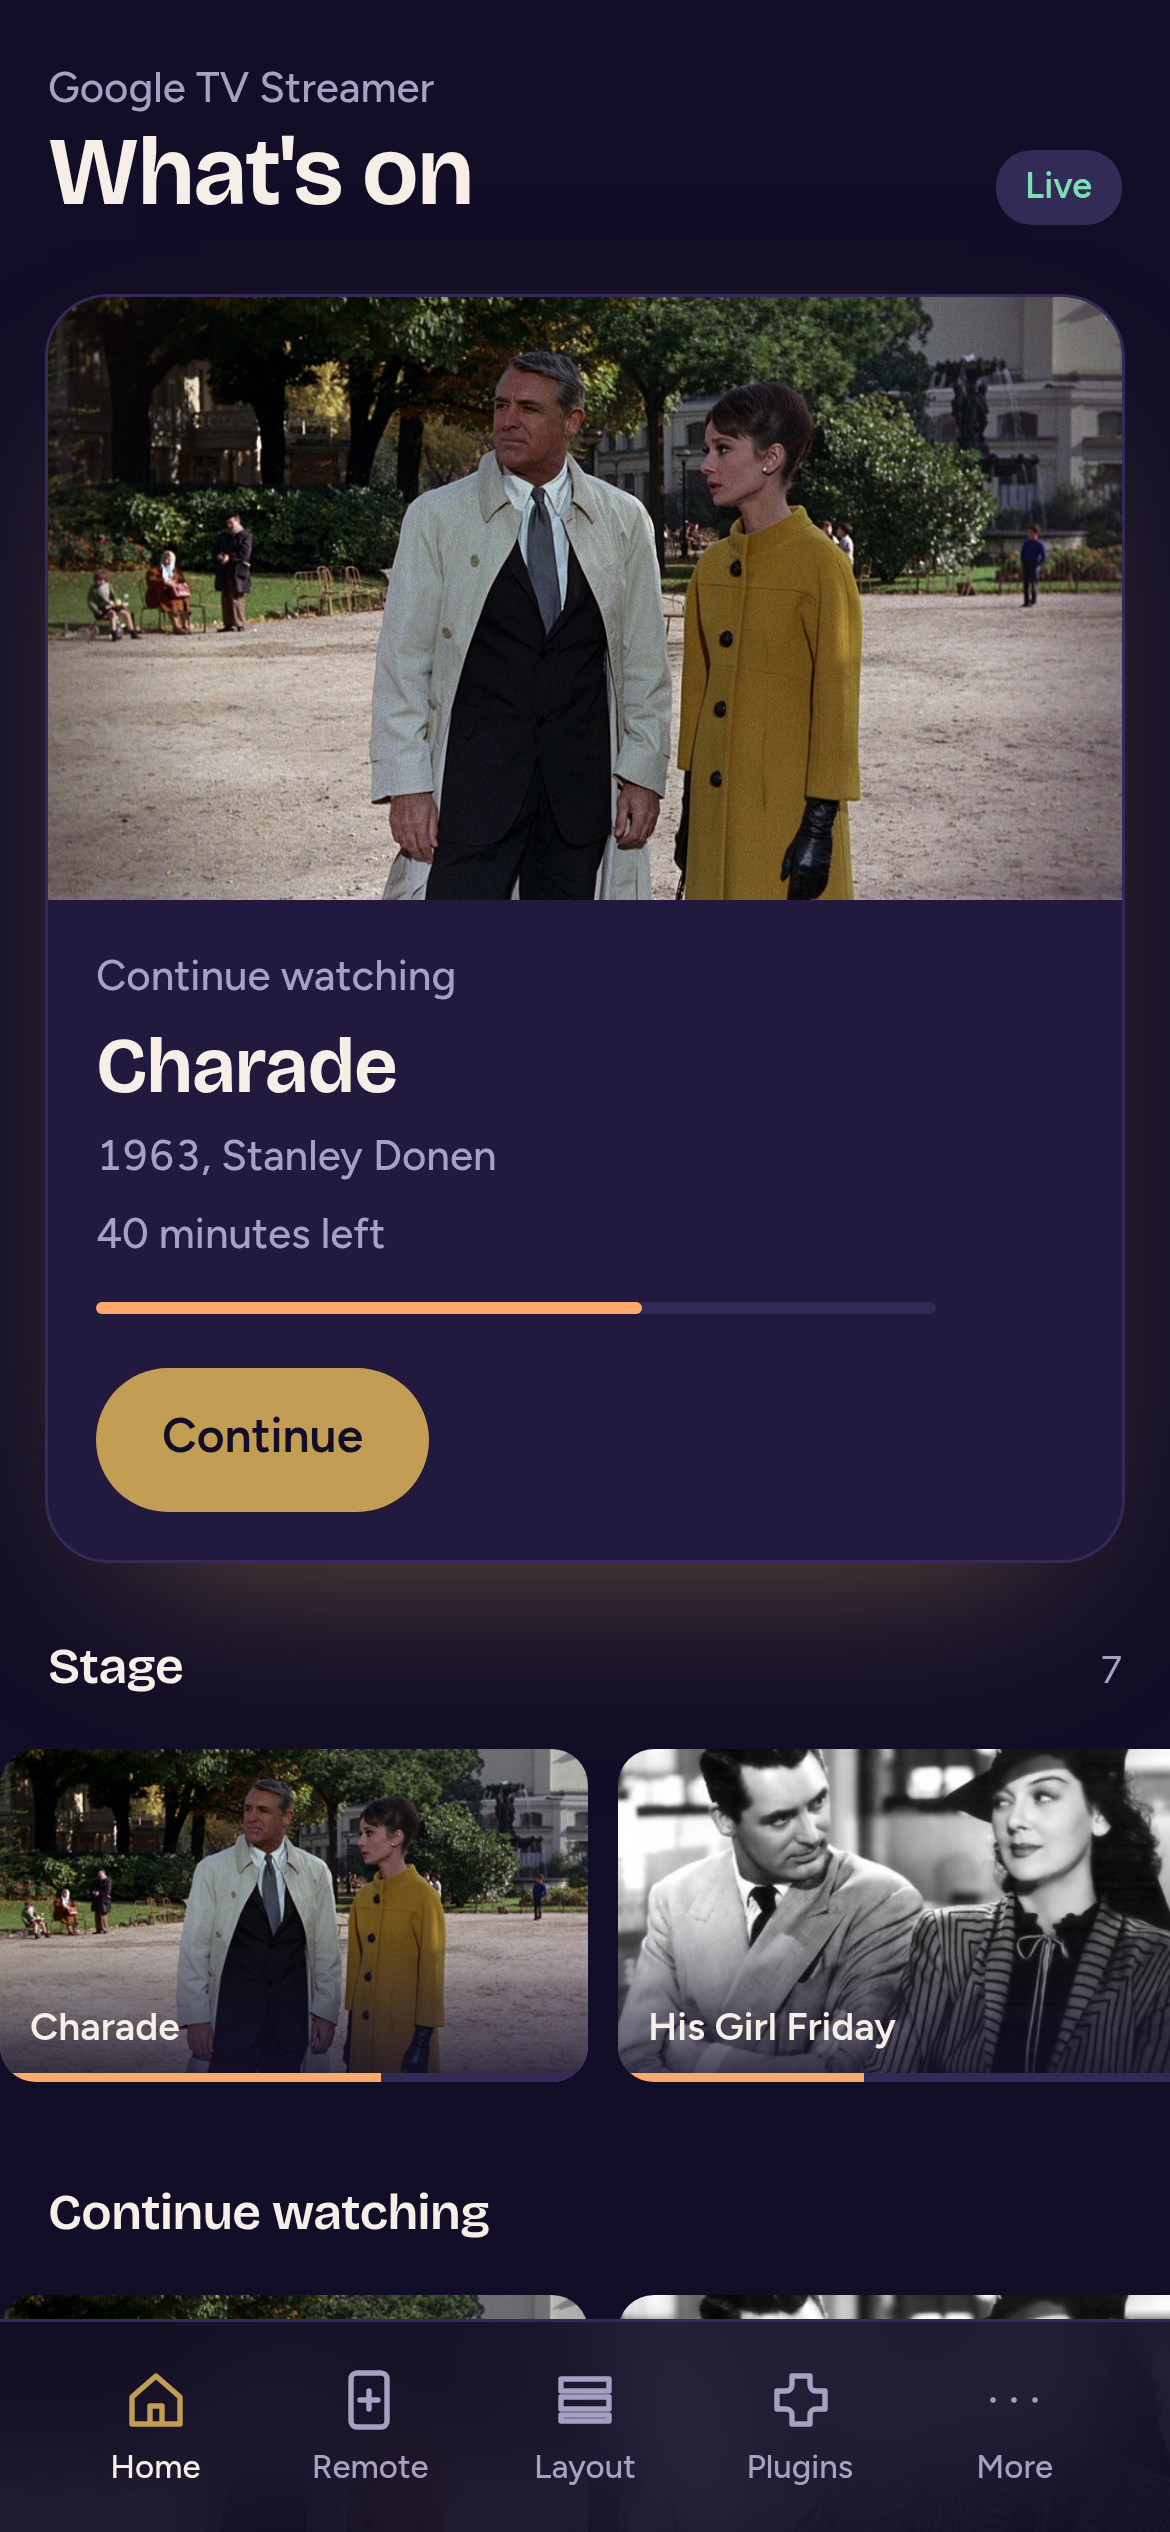
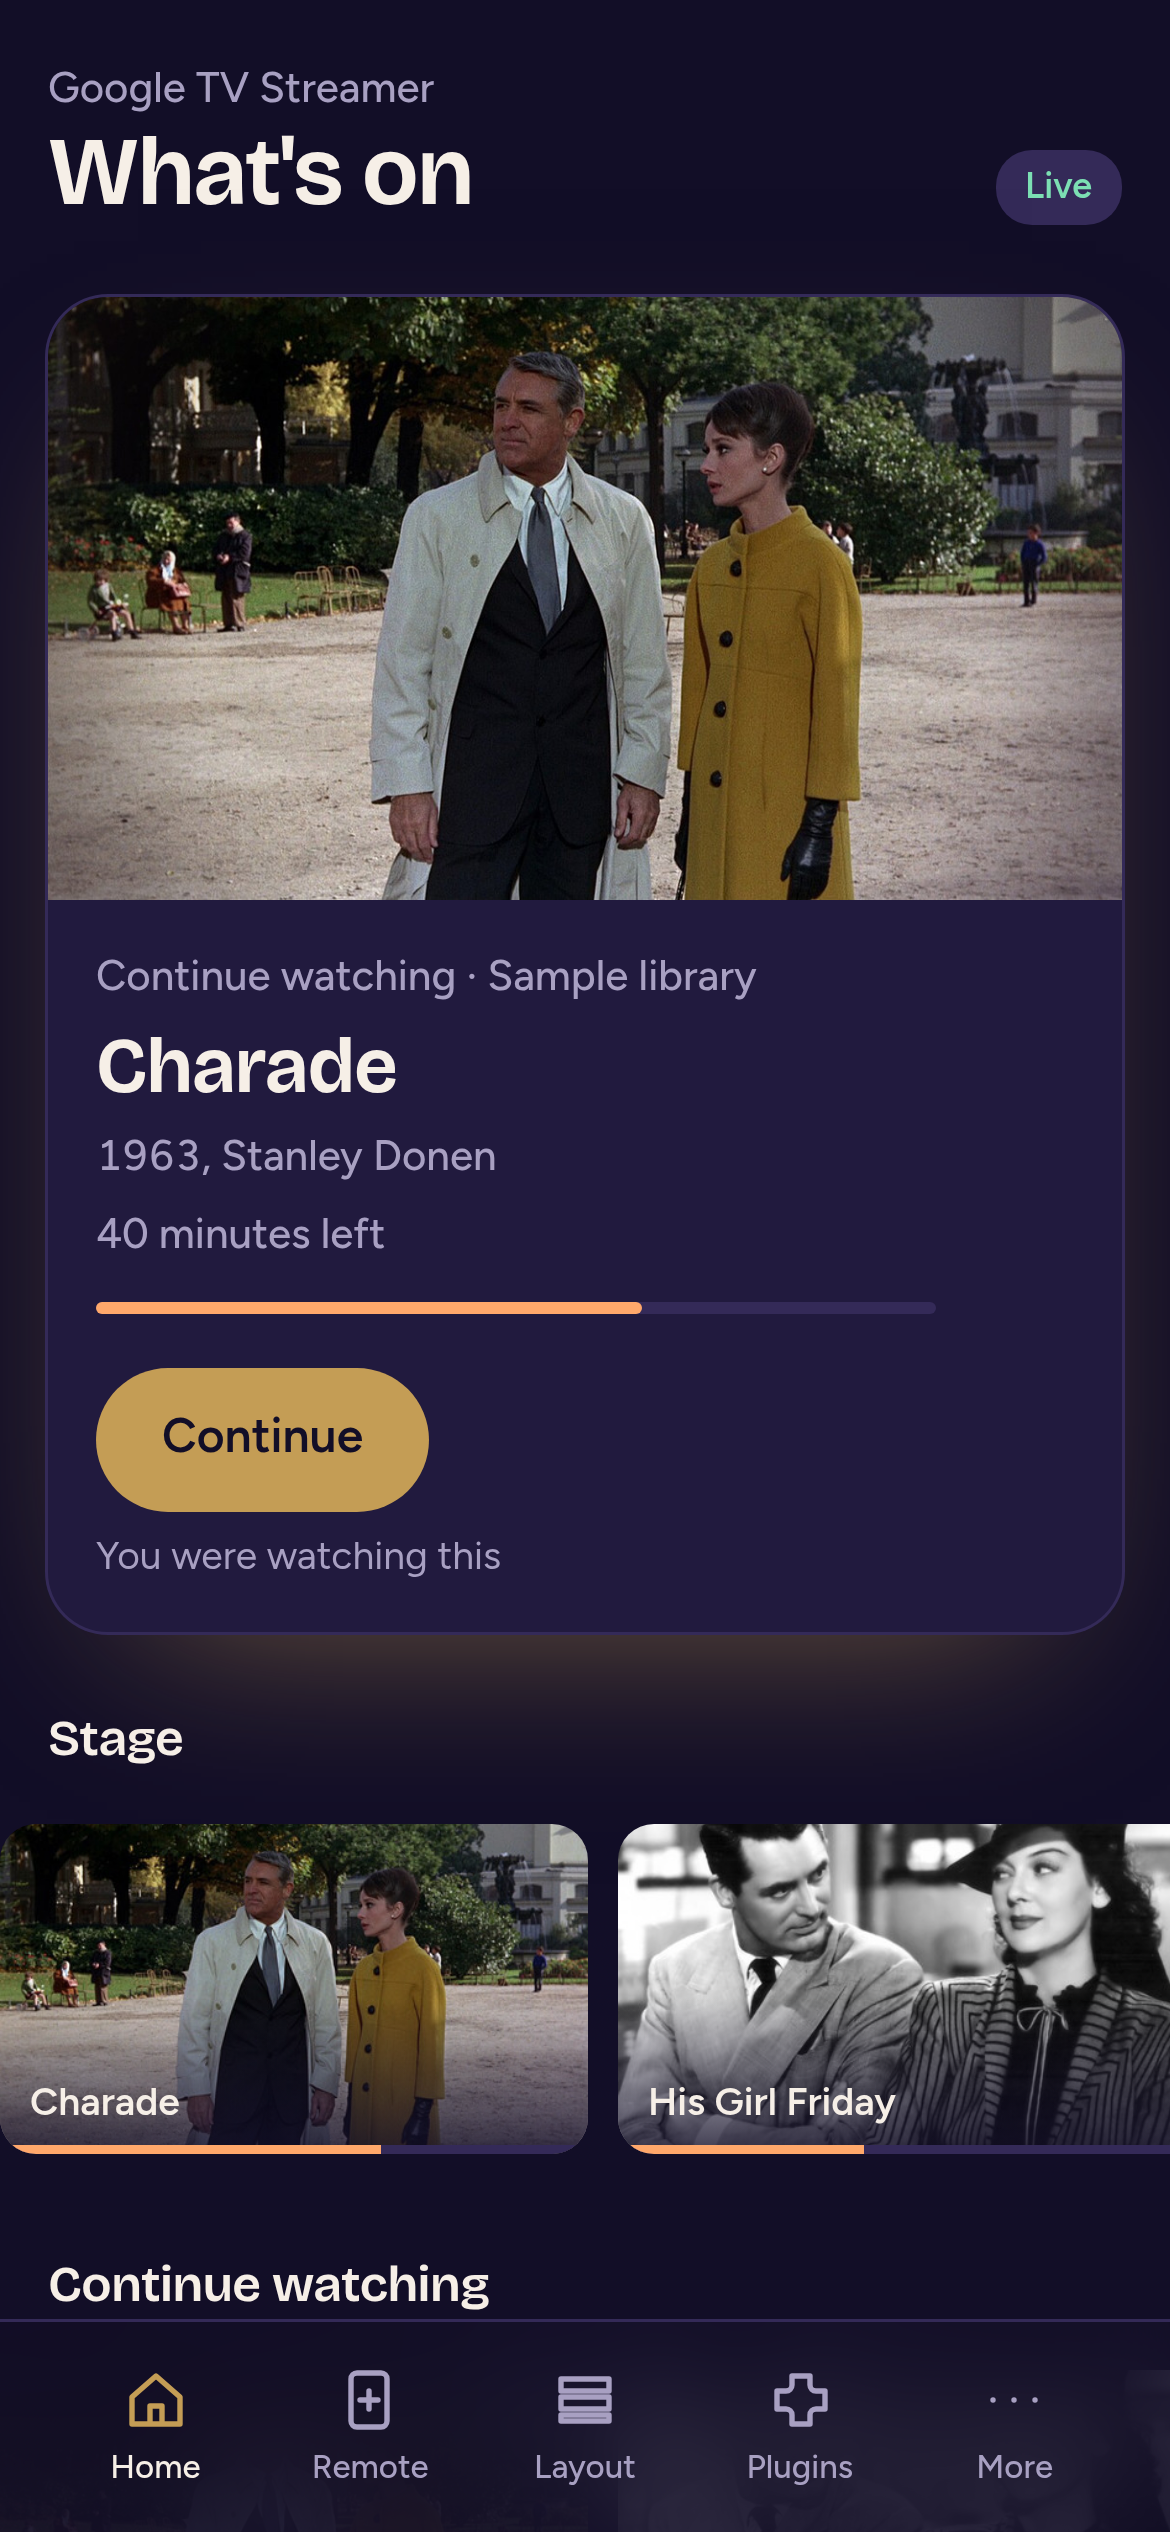
Retake the screenshots on the Google TV Streamer
The pictures showed Lounge as it was in October's first build: no name
in the top bar, three plugins on the phone and the old first setup
screen. They are taken again from the current build, with the sample
library on and nothing else allowed, and two descriptions now say what
the new pictures show.

diff --git a/README.md b/README.md
@@ -125,7 +125,7 @@ it the home screen, pairing a phone, done. Every one is reachable again from Set
 
 <p align="center">
   <img src="docs/screenshots/rows.png" width="49%" alt="The Stage lowered to a band with the rows below it: Continue watching, Your apps, Games">
-  <img src="docs/screenshots/tile-menu.png" width="49%" alt="The long-press menu beside an app tile, with the room dimmed around it">
+  <img src="docs/screenshots/tile-menu.png" width="49%" alt="The long-press menu beside a tile, with Pin to Stage and Hide, and the room dimmed around it">
 </p>
 
 ## The phone
@@ -141,7 +141,7 @@ home screen like an app. The TV serves it itself and remembers the phone until y
   &nbsp;
   <img src="docs/screenshots/phone-layout.png" width="23%" alt="Layout: the rows in order with arrows to move them">
   &nbsp;
-  <img src="docs/screenshots/phone-plugins.png" width="23%" alt="Plugins: the installed plugins and a place to install another from a file or a link">
+  <img src="docs/screenshots/phone-plugins.png" width="23%" alt="Plugins: the built-in plugins, each marked off or needing setup">
 </p>
 
 - **What's on** mirrors the home screen. Tap a tile and it opens on the TV.
